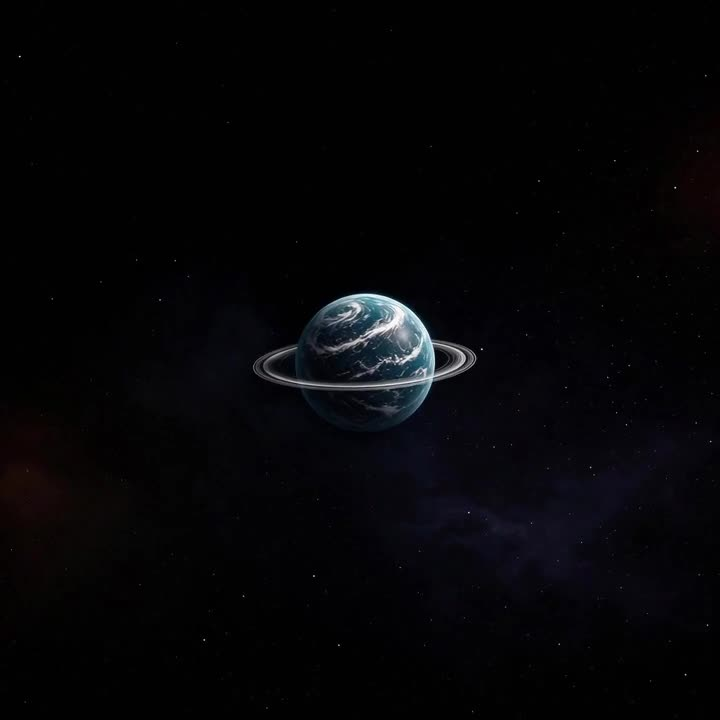
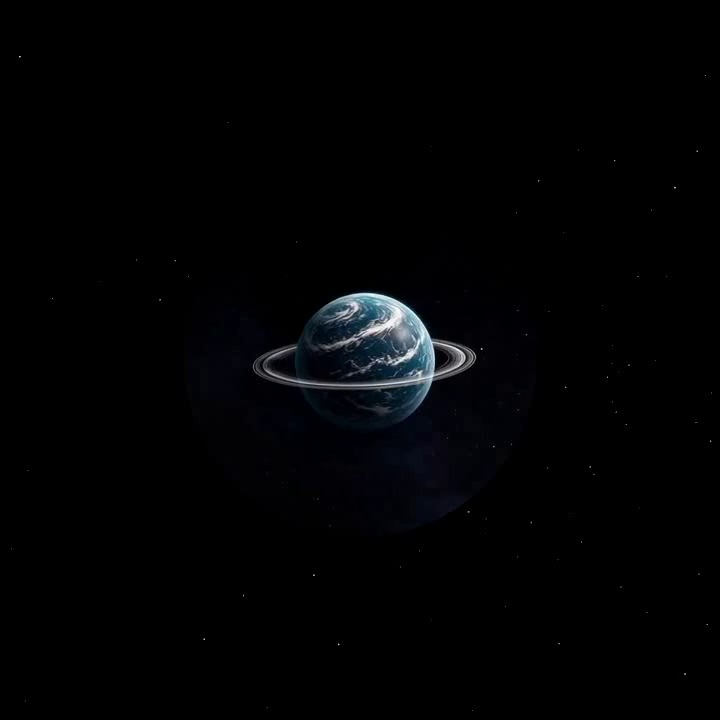
Kill Tide black plate: dedicated alpha, videos off-screen.
The impostor was painting the Imagine void as an opaque disc.
Tide now keeps the globe and the rings only. Samsung overlay
cannot leak a circular video on top.
KEEP only.

diff --git a/src/lib/constellation/impostor.ts b/src/lib/constellation/impostor.ts
@@ -29,8 +29,8 @@ export const IMPOSTOR: Record<NodeId, ImpostorCfg> = {
     seed: 11.2,
   },
   tide: {
-    source: 0.242,
-    halo: 0.42,
+    source: 0.248,
+    halo: 0.46,
     cx: 0.5,
     cy: 0.5,
     parallax: 0.0,
@@ -127,6 +127,7 @@ uniform vec2 uCenter;
 uniform vec4 uParams;
 uniform float uOpacity;
 uniform float uKind;
+uniform float uTide;
 uniform float uSeed;
 uniform float uTime;
 uniform vec3 uA;
@@ -186,11 +187,27 @@ void main() {
   float halo0 = uParams.y;
   float para = uParams.z;
   float lod = uParams.w;
-  // Stars may bloom on zoom. Planets must not — that grew a black plate.
   float halo = uKind < 0.5 ? mix(halo0, 0.52, lod) : halo0;
 
   vec2 d = vUv - uCenter;
   float pr = length(d);
+
+  // Tide is hardcoded so a bad uniform can never paint the plate.
+  if (uTide > 0.5) {
+    if (pr > 0.48) {
+      gl_FragColor = vec4(0.0);
+      return;
+    }
+    vec4 plate = texture2D(uTex, vUv);
+    float L = max(plate.r, max(plate.g, plate.b));
+    float globe = 1.0 - smoothstep(0.246, 0.254, pr);
+    float ring = smoothstep(0.14, 0.28, L);
+    float ringWin = 1.0 - smoothstep(0.40, 0.47, pr);
+    float a = max(globe, ring * ringWin) * uOpacity;
+    gl_FragColor = vec4(plate.rgb * a, a);
+    return;
+  }
+
   if (pr > halo) {
     gl_FragColor = vec4(0.0);
     return;
@@ -238,12 +255,12 @@ void main() {
   float window = 1.0 - smoothstep(halo * 0.9, halo, pr);
   float starA = smoothstep(0.08, 0.22, luma) * window;
 
-  // Body disc. Canyon (kind>=2): disc only. Tide: disc + bright rings, never the void.
+  // Tide: globe (dark oceans stay). Rings if they are actually bright. Plate void dies.
   float disc = 1.0 - smoothstep(source * 0.996, source * 1.004, pr);
   float inHalo = 1.0 - smoothstep(halo * 0.92, halo, pr);
-  float ring = smoothstep(0.32, 0.55, luma);
+  float ring = smoothstep(0.32, 0.55, luma) * inHalo;
   float isTide = step(0.5, uKind) * (1.0 - step(1.5, uKind));
-  float planetA = max(disc, ring * inHalo * isTide);
+  float planetA = mix(disc, max(disc, ring), isTide);
 
   float a = mix(starA, planetA, step(0.5, uKind)) * uOpacity;
   gl_FragColor = vec4(rgb * a, a);
@@ -299,6 +316,7 @@ export function createImpostorLayer(
   const uParams = gl.getUniformLocation(prog, "uParams");
   const uOpacity = gl.getUniformLocation(prog, "uOpacity");
   const uKind = gl.getUniformLocation(prog, "uKind");
+  const uTide = gl.getUniformLocation(prog, "uTide");
   const uSeed = gl.getUniformLocation(prog, "uSeed");
   const uTime = gl.getUniformLocation(prog, "uTime");
   const uA = gl.getUniformLocation(prog, "uA");
@@ -413,6 +431,7 @@ export function createImpostorLayer(
       gl.uniform4f(uParams, cfg.source, cfg.halo, cfg.parallax, s.lod);
       gl.uniform1f(uOpacity, s.opacity);
       gl.uniform1f(uKind, cfg.kind);
+      gl.uniform1f(uTide, s.id === "tide" ? 1.0 : 0.0);
       gl.uniform1f(uSeed, cfg.seed);
       gl.uniform1f(uTime, tSec);
       gl.uniform3f(uA, cfg.a[0], cfg.a[1], cfg.a[2]);

diff --git a/src/styles.css b/src/styles.css
@@ -130,24 +130,25 @@
 }
 
 .tex-farm {
-  position: absolute;
-  left: -64px;
-  top: -64px;
-  width: 8px;
-  height: 8px;
+  position: fixed;
+  left: 0;
+  top: 0;
+  width: 1px;
+  height: 1px;
   overflow: hidden;
-  opacity: 0;
+  opacity: 0.01;
   pointer-events: none;
+  z-index: 0;
 }
 
 .tex-farm video {
-  width: 8px;
-  height: 8px;
+  width: 720px;
+  height: 720px;
+  object-fit: cover;
 }
 
 .has-impostor .node-media {
-  opacity: 0 !important;
-  visibility: hidden !important;
+  display: none !important;
 }
 
 .has-impostor .node-glow {
@@ -158,6 +159,7 @@
   clip-path: none;
   border-radius: 0;
   overflow: visible;
+  background: transparent;
 }
 
 .node-orb {
@@ -166,6 +168,7 @@
   pointer-events: none;
   border-radius: 0;
   clip-path: none;
+  background: transparent;
   transform-origin: 50% 50%;
 }
 
@@ -187,16 +190,39 @@
   object-fit: cover;
   display: block;
   pointer-events: none;
+  background: transparent;
 }
 
-.node-video {
-  z-index: 1;
-  opacity: 0 !important;
-  visibility: hidden;
+.plate-tide {
+  -webkit-mask-image: url("/videos/tide-mask.png?v=noleak");
+  mask-image: url("/videos/tide-mask.png?v=noleak");
+  -webkit-mask-size: 100% 100%;
+  mask-size: 100% 100%;
 }
 
-.node-video.is-live {
-  opacity: 0 !important;
+.plate-canyon {
+  -webkit-mask-image: radial-gradient(circle, #fff 31.2%, transparent 31.8%);
+  mask-image: radial-gradient(circle, #fff 31.2%, transparent 31.8%);
+}
+
+.plate-core {
+  -webkit-mask-image: radial-gradient(circle, #fff 12%, transparent 14%);
+  mask-image: radial-gradient(circle, #fff 12%, transparent 14%);
+}
+
+.plate-crystal {
+  -webkit-mask-image: radial-gradient(circle, #fff 13%, transparent 15%);
+  mask-image: radial-gradient(circle, #fff 13%, transparent 15%);
+}
+
+.plate-hollow {
+  -webkit-mask-image: radial-gradient(circle, #fff 17%, transparent 19%);
+  mask-image: radial-gradient(circle, #fff 17%, transparent 19%);
+}
+
+.plate-drift {
+  -webkit-mask-image: radial-gradient(circle, #fff 9%, transparent 11%);
+  mask-image: radial-gradient(circle, #fff 9%, transparent 11%);
 }
 
 .world-layer {

diff --git a/src/components/constellation/ConstellationMap.tsx b/src/components/constellation/ConstellationMap.tsx
@@ -782,6 +782,7 @@ export function ConstellationMap() {
       ref={rootRef}
       data-sky="core"
       className={`relative h-dvh w-full overflow-hidden bg-bg text-fg touch-none select-none${hasImpostor ? " has-impostor" : ""}`}
+      data-rev="noleak"
       onPointerDown={onPointerDown}
       onPointerMove={onPointerMove}
       onPointerUp={endPointer}
@@ -870,23 +871,34 @@ export function ConstellationMap() {
               }}
             >
             <div className="node-glow" />
-            <img src={n.poster} alt="" draggable={false} className="node-media" />
-            <video
-              ref={(el) => {
-                videoRefs.current[n.id] = el;
-              }}
-              src={n.video}
-              poster={n.poster}
-              muted
-              loop
-              playsInline
-              preload={n.id === "core" ? "auto" : "metadata"}
-              disablePictureInPicture
-              controls={false}
-              className="node-media node-video"
-            />
+            {!hasImpostor ? (
+              <img
+                src={n.poster}
+                alt=""
+                draggable={false}
+                className={`node-media plate-${n.id}`}
+              />
+            ) : null}
             </div>
           </div>
+        ))}
+      </div>
+
+      <div className="tex-farm" aria-hidden="true">
+        {NODES.map((n) => (
+          <video
+            key={n.id}
+            ref={(el) => {
+              videoRefs.current[n.id] = el;
+            }}
+            src={n.video}
+            muted
+            loop
+            playsInline
+            preload={n.id === "core" ? "auto" : "metadata"}
+            disablePictureInPicture
+            controls={false}
+          />
         ))}
       </div>
 

diff --git a/src/lib/constellation/world.ts b/src/lib/constellation/world.ts
@@ -36,8 +36,8 @@ export const NODES: WorldNode[] = [
     y: 480,
     z: 440,
     ring: "inner",
-    video: "/videos/tide.mp4?v=cut2",
-    poster: "/videos/tide.jpg?v=cut2",
+    video: "/videos/tide.mp4?v=noleak",
+    poster: "/videos/tide.jpg?v=noleak",
   },
   {
     id: "canyon",
